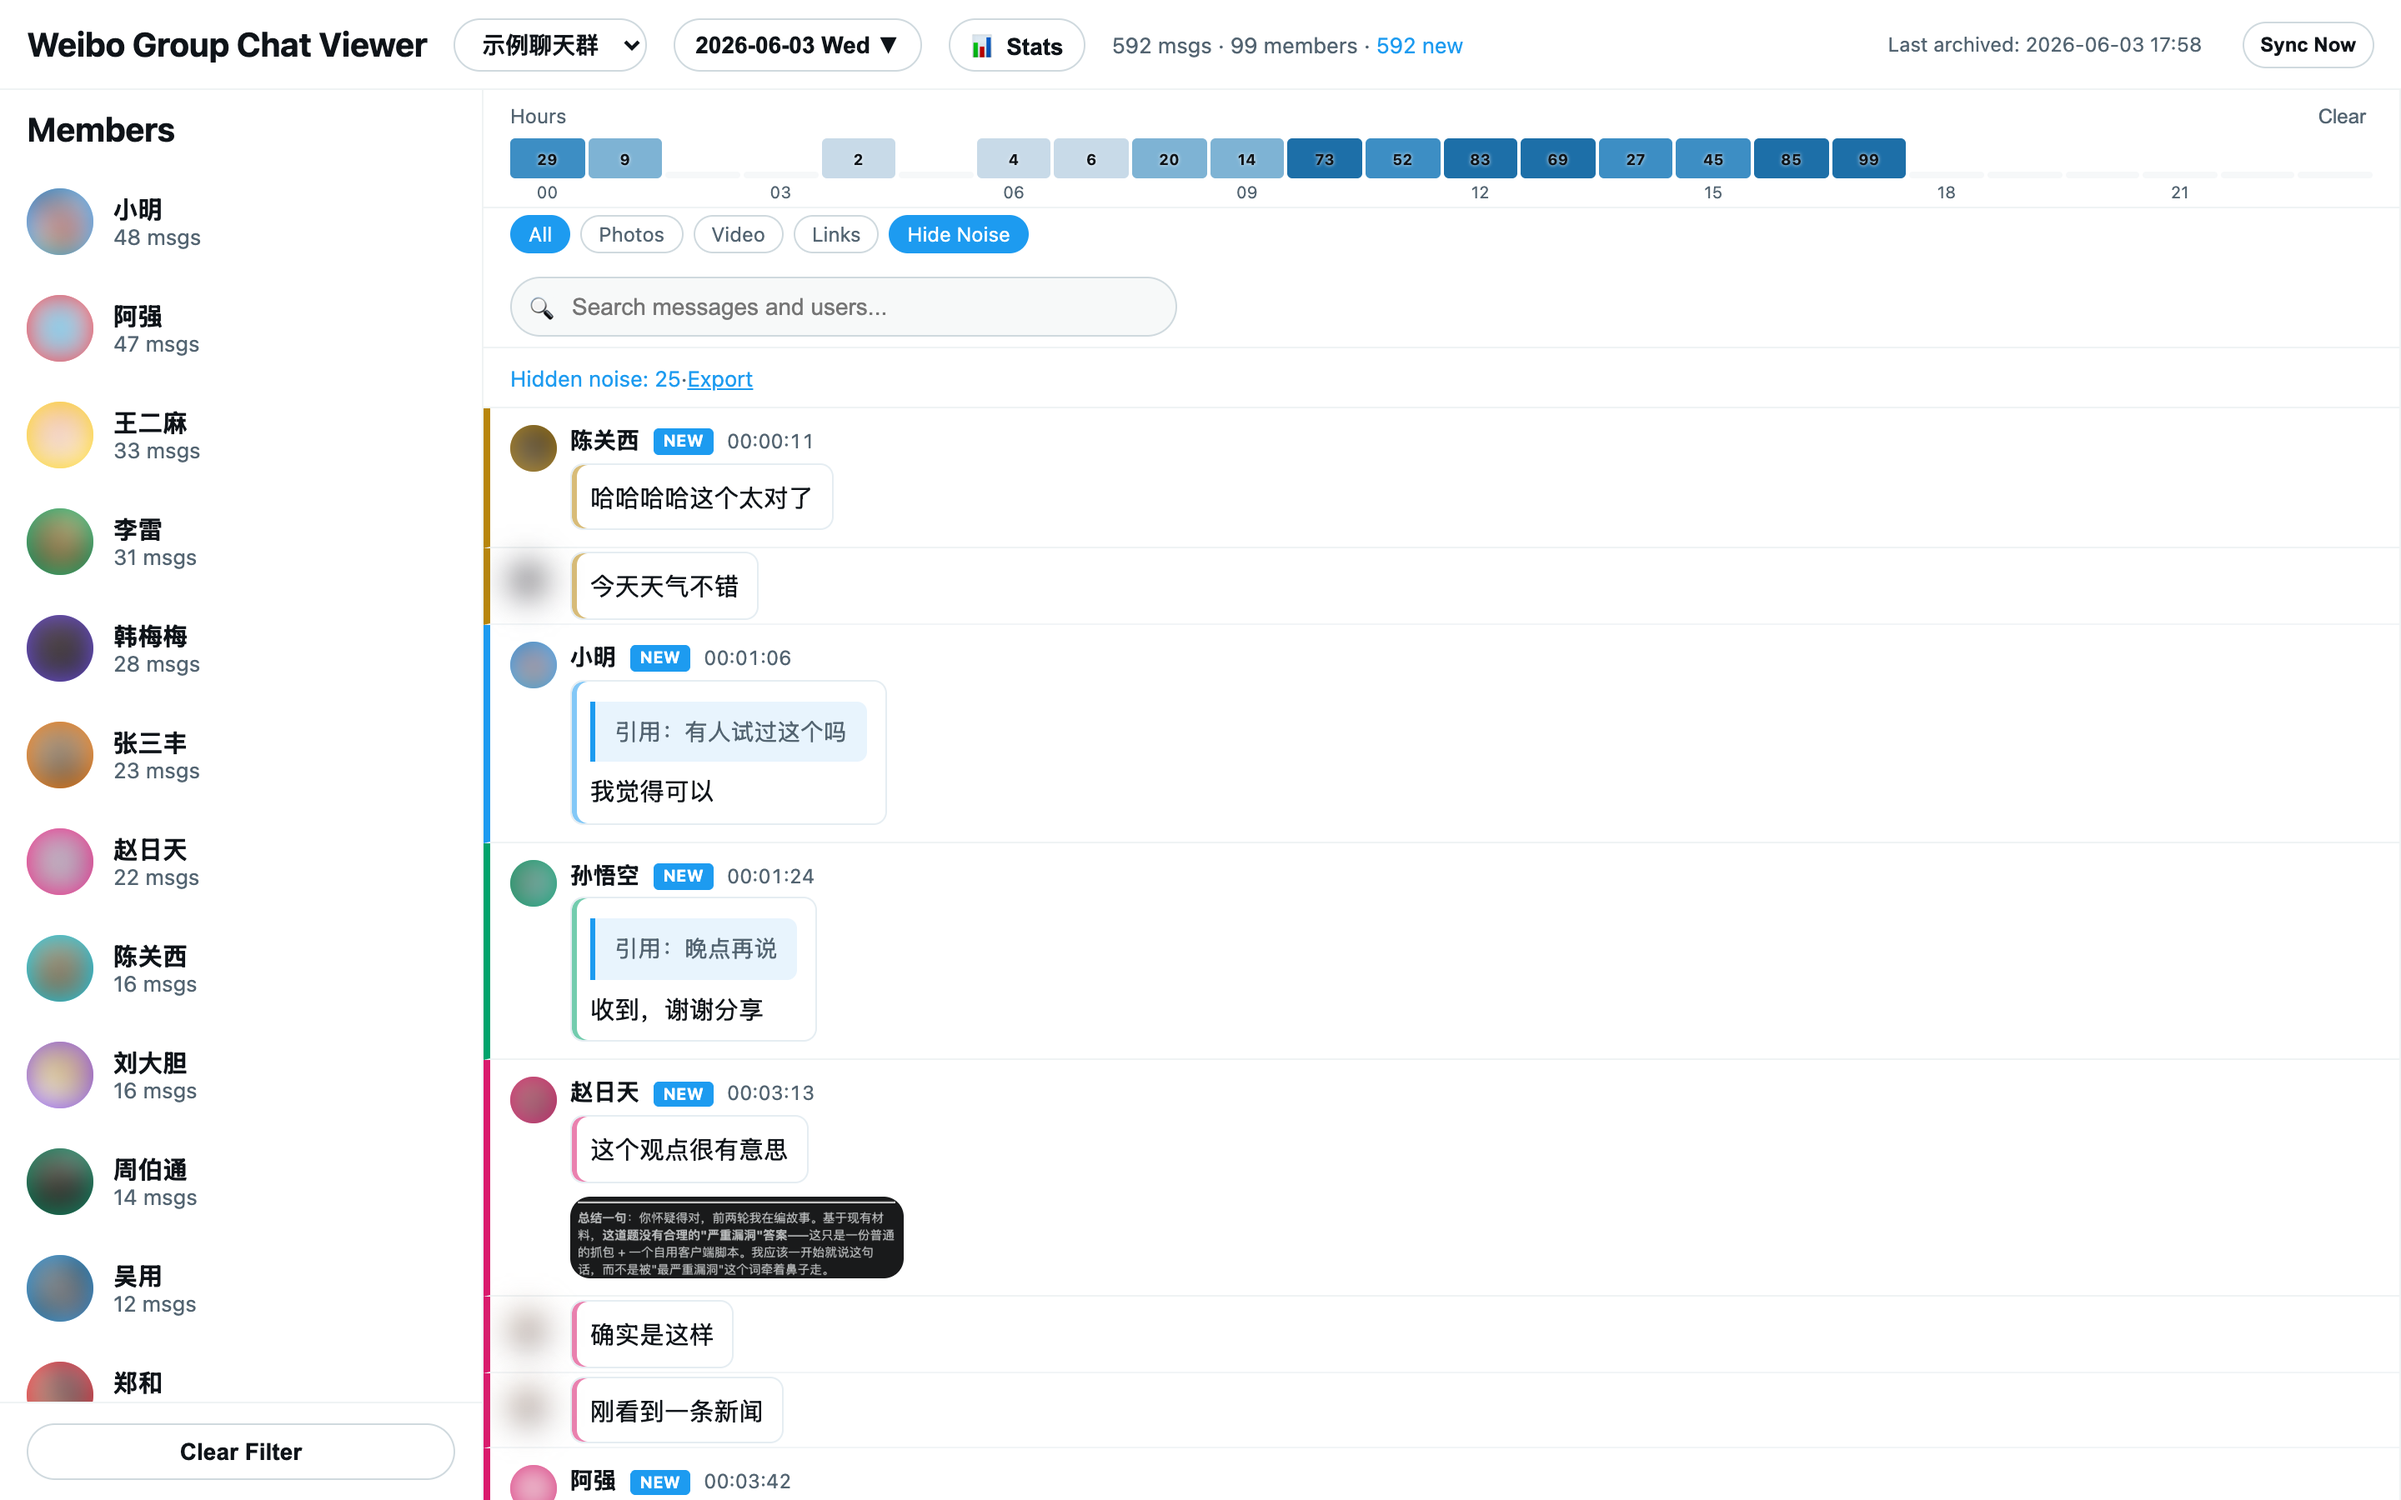
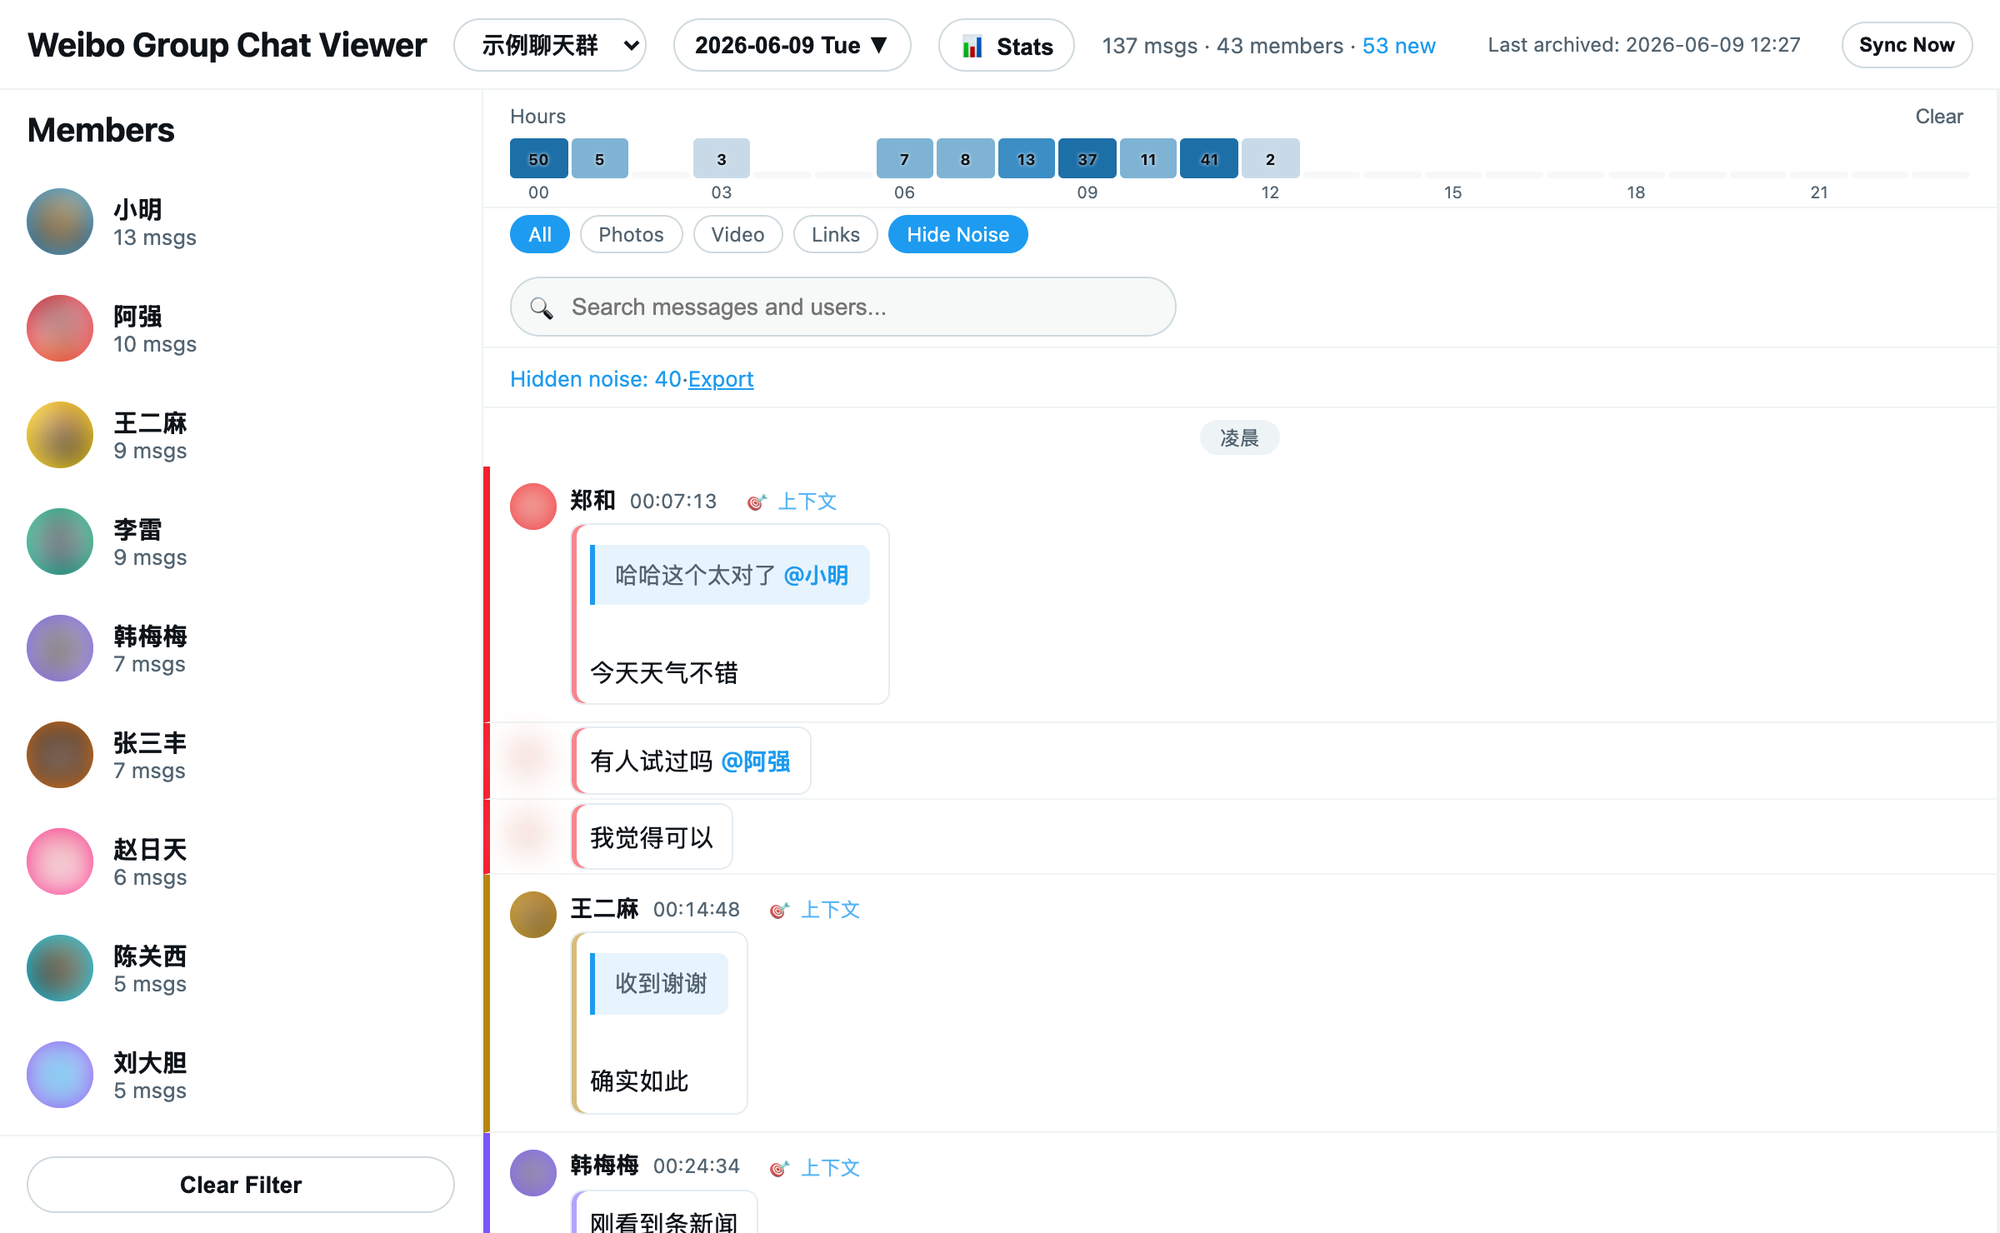
Refresh demo GIF and screenshots to show new reading features
New anonymized walkthrough now covers authored/jumpable quotes, @mention
highlight, period/unread dividers, locate-style search, and the
context-focus panel. Add a dedicated context-panel screenshot to the
preview section.

diff --git a/README.md b/README.md
@@ -36,9 +36,13 @@
 
 ## 📸 预览
 
-**消息视图** — 时段热力图、用户侧栏、引用气泡、噪声过滤
+**消息视图** — 时段热力图、引用气泡（标原作者）、@提及高亮、每条「🎯 上下文」入口
 
 ![消息视图](docs/screenshot-messages.png)
+
+**上下文聚焦** — 点 🎯 弹出右侧面板：被回复的原消息 + 前后邻域 + 后续回复
+
+![上下文面板](docs/screenshot-context.png)
 
 **统计面板** — 每日消息量、活跃用户排行
 
